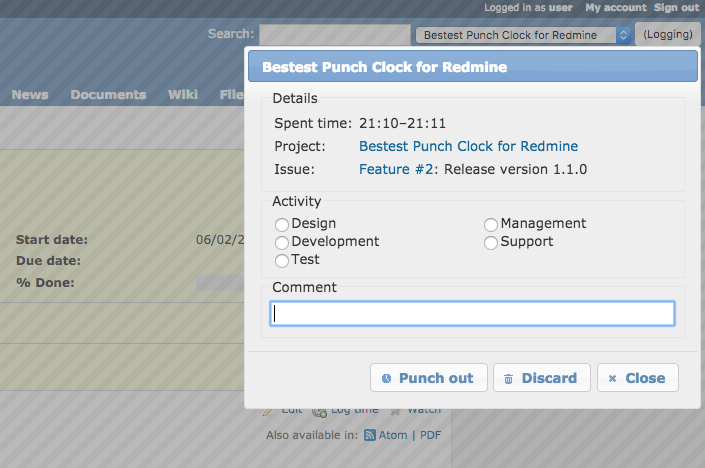
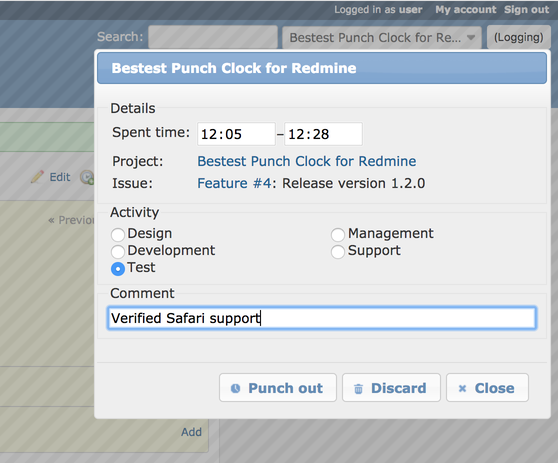
Updated screenshot and added a branches/major releases section

diff --git a/README.md b/README.md
@@ -21,3 +21,31 @@ And that's all there is to it.
 ```bash
   git pull
 ```
+
+# Branches/major releases
+
+## `master`
+
+The `master` branch tracks the latest stable release.
+
+## `v1.2`
+
+The "Oops, I forgot" release.
+
+* Reminders! *Bestest Punch Clock* will now remind you to punch in or punch out.
+* Editable punch in/punch out time. Fix your mistakes before you punch out. [PR from kybersoft]
+* On Redmine's *Edit Spent Time* page, synchronize the *Hours* field with the time information from the *Comment* field. Edit one and the other will automatically update.
+* Disable *Bestest Punch Clock* button if we know punch if won't work. Provide help in tool tip.
+
+## `v1.1` (2017-06-02)
+
+Small UI improvments.
+
+* Link to current project and issue.
+* Use radio buttons for activity instead of a dropdown menu.
+* Added a hack to remove black line in Safari.
+* Disabled Punch out button if no activity has been selected.
+
+## `v1.0` (2017-03-08)
+
+Initial release branch.
